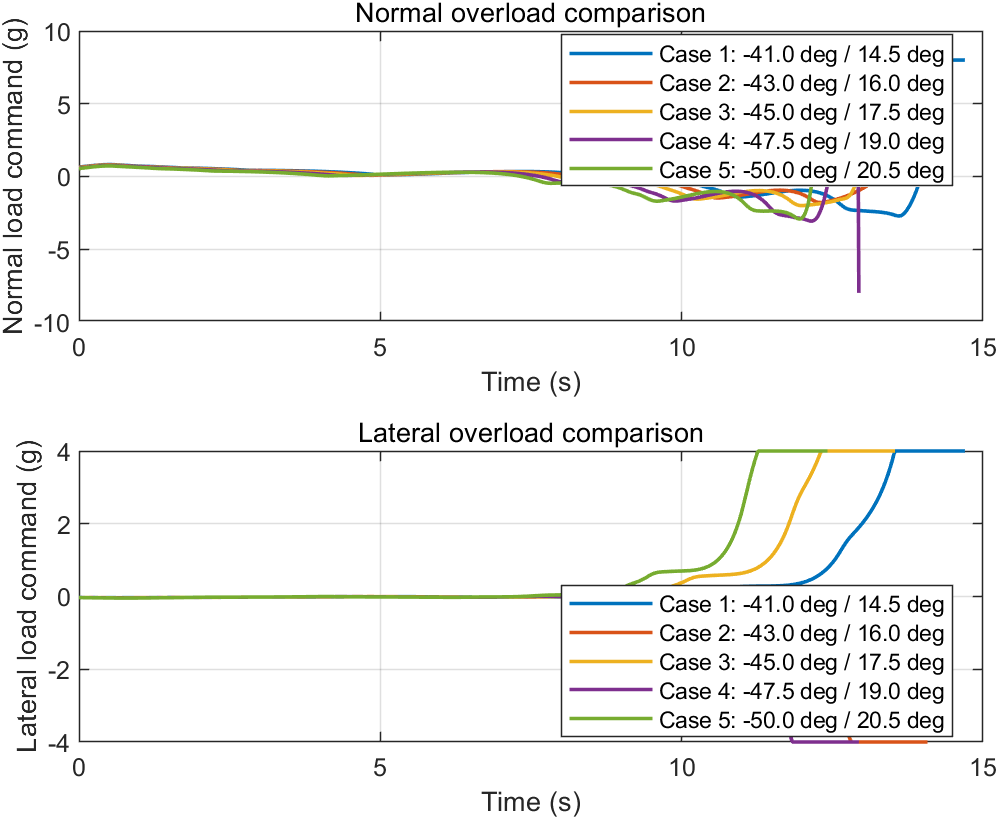
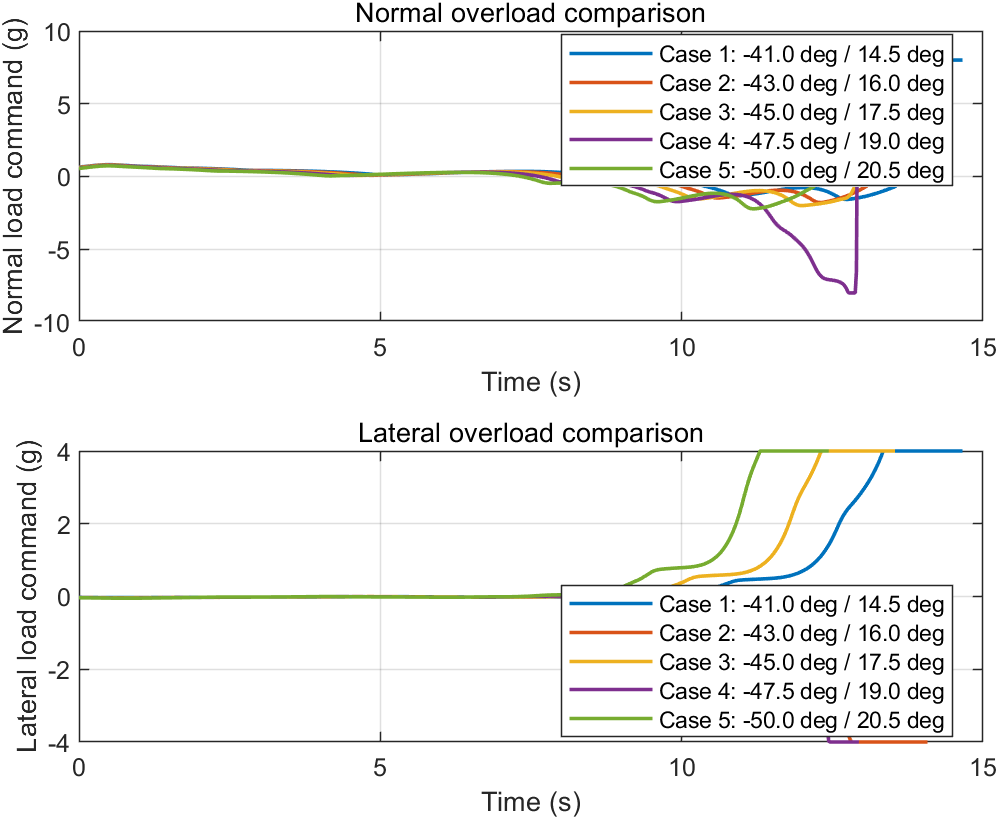
更新落角约束初始角测试

diff --git a/比例导引_落角约束/tests/impactAngleResultsTest.m b/比例导引_落角约束/tests/impactAngleResultsTest.m
@@ -44,10 +44,10 @@ classdef impactAngleResultsTest < matlab.unittest.TestCase
                 min(abs(diff([loaded.summary.thetaDesiredDeg]))), 2.0);
             testCase.verifyGreaterThanOrEqual( ...
                 min(abs(diff([loaded.summary.psiDesiredDeg]))), 1.0);
-            testCase.verifyGreaterThanOrEqual( ...
-                min(abs(diff([loaded.summary.thetaInitialDeg]))), 2.0);
-            testCase.verifyGreaterThanOrEqual( ...
-                min(abs(diff([loaded.summary.psiInitialDeg]))), 1.0);
+            testCase.verifyLessThanOrEqual( ...
+                max(abs(diff([loaded.summary.thetaInitialDeg]))), 2.5+eps(2.5));
+            testCase.verifyLessThanOrEqual( ...
+                max(abs(diff([loaded.summary.psiInitialDeg]))), 1.5+eps(1.5));
         end
 
         function testOverloadLimits(testCase)

diff --git a/比例导引_落角约束/runImpactAngleCases.m b/比例导引_落角约束/runImpactAngleCases.m
@@ -11,8 +11,8 @@ delete(fullfile(outputFolder, "case_*_flight_data.mat"));
 
 thetaDesiredDeg = [-41, -43, -45, -47.5, -50];
 psiDesiredDeg = [14.5, 16, 17.5, 19, 20.5];
-thetaInitialDeg = [-41, -43, -45, -47.5, -50];
-psiInitialDeg = [14.5, 16, 17.5, 19, 20.5];
+thetaInitialDeg = [-41.1, -43, -45, -47.45, -49.9];
+psiInitialDeg = [14.6, 16, 17.5, 18.95, 20.4];
 initialAltitudeM = [25000, 25000, 25000, 25000, 25000];
 targetPositionM = [25000, 7500, 0];
 horizontalRangeM = initialAltitudeM ./ tand(abs(thetaInitialDeg));